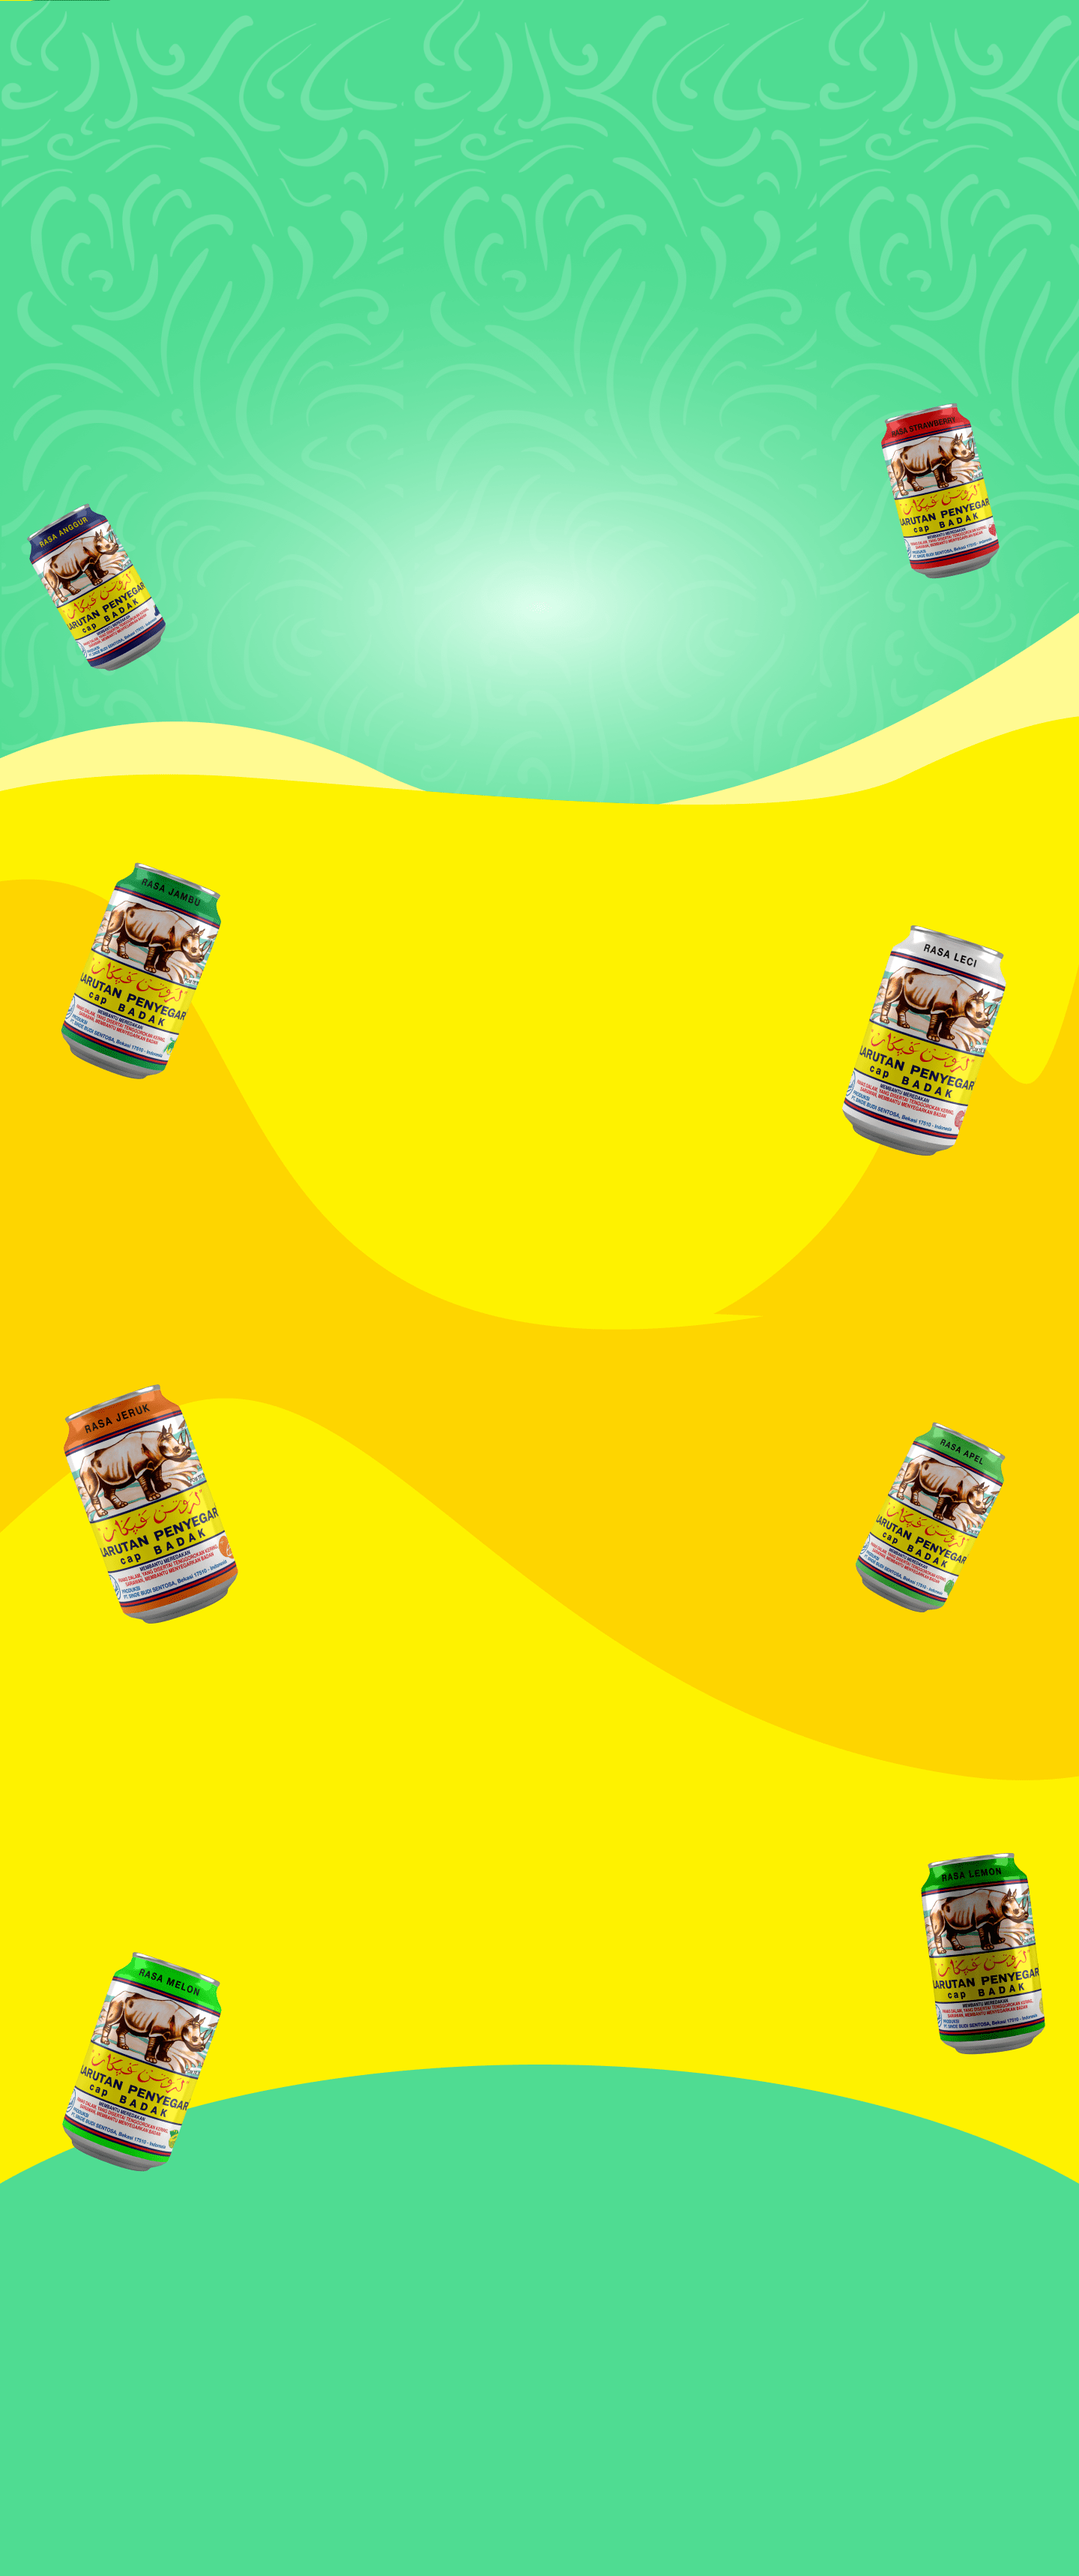
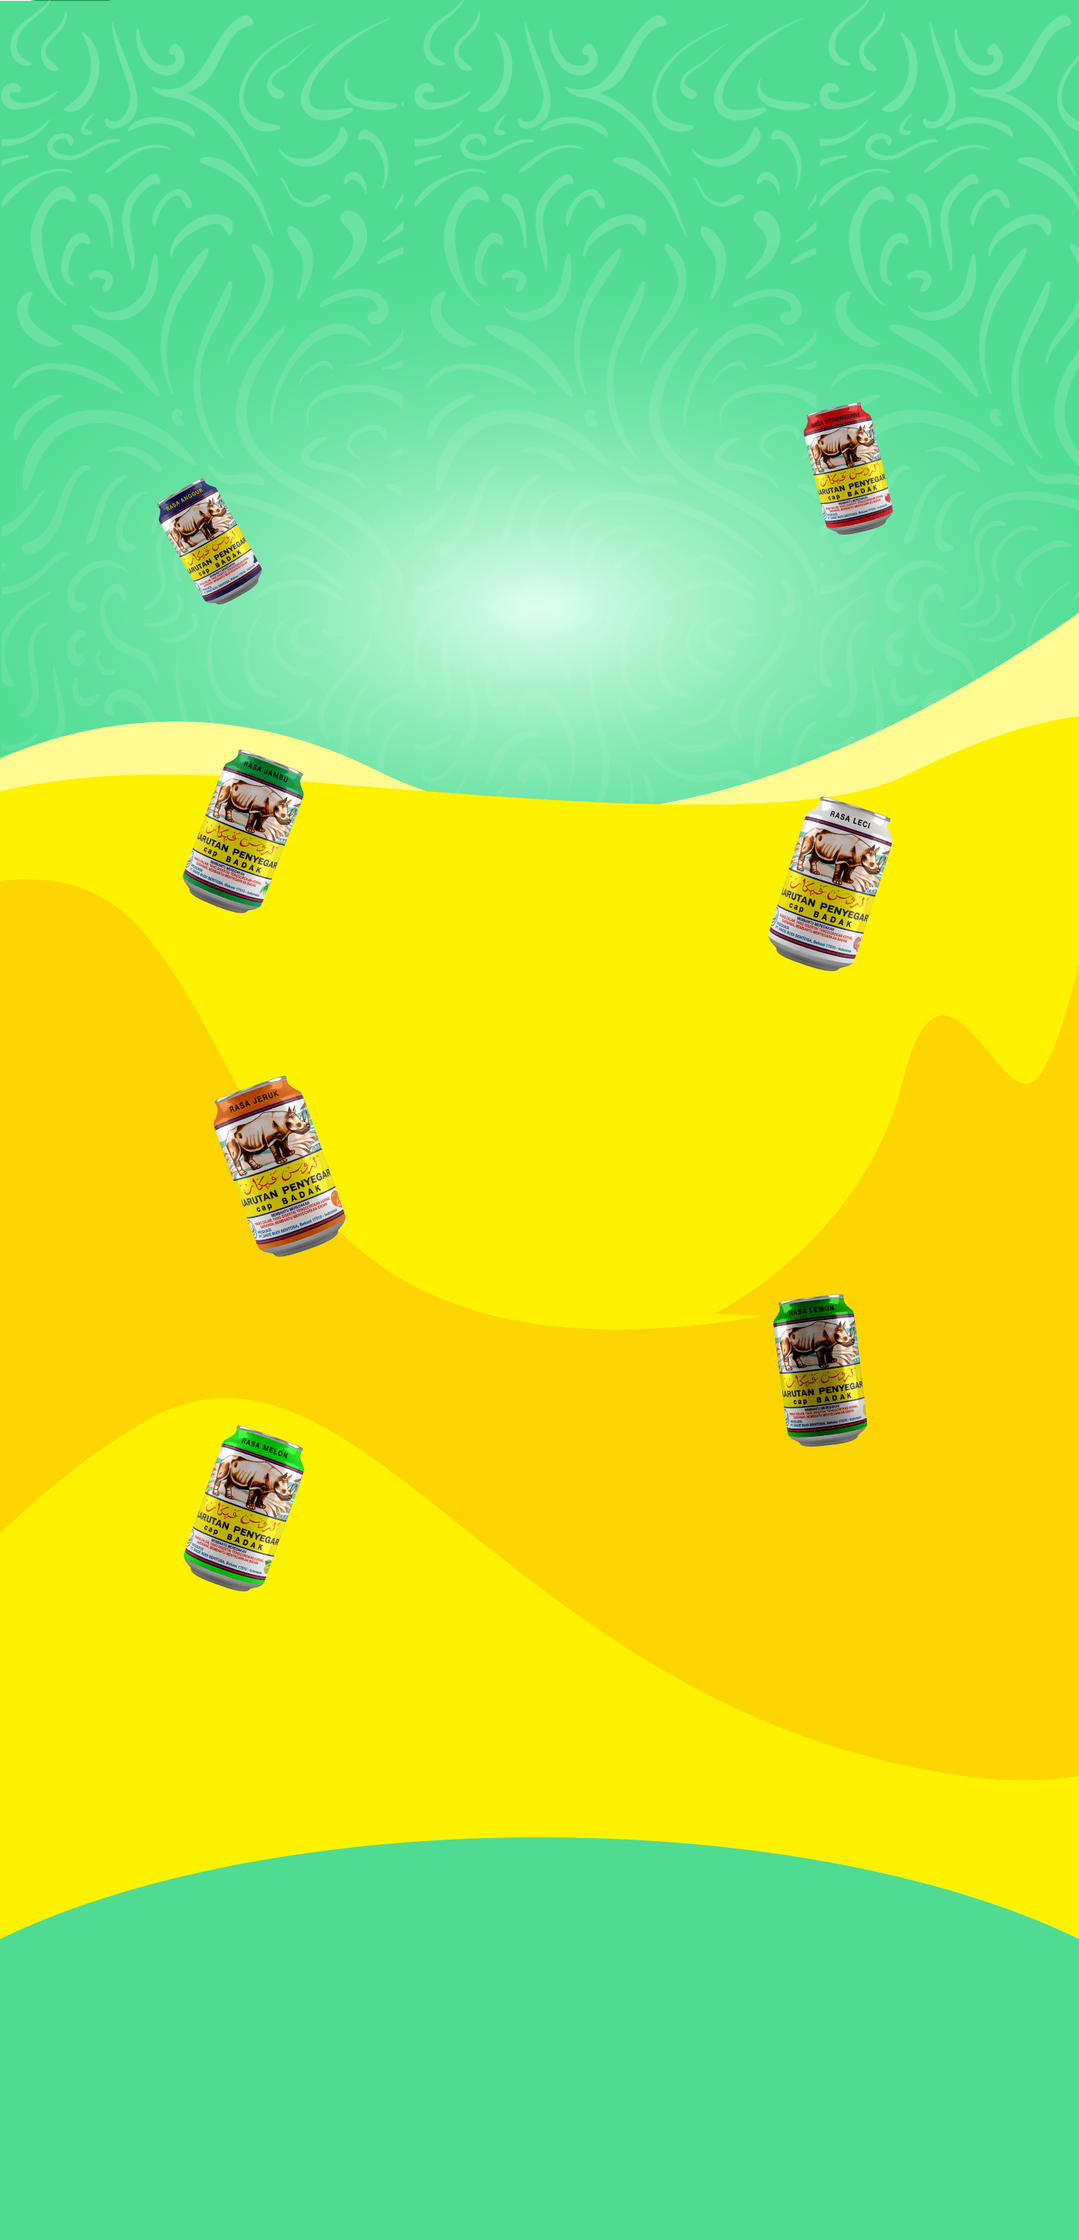
background

diff --git a/resources/sass/app.scss b/resources/sass/app.scss
@@ -184,7 +184,7 @@ header{
 }
 .form-page{
     background-color: #FEF200;
-    background-image: url('/img/bg_form-min.png');
+    background-image: url('/img/form.png');
     background-repeat: no-repeat;
     background-position: top center;
     background-size: cover;

diff --git a/public/css/app.css b/public/css/app.css
@@ -11125,7 +11125,7 @@ header {
 
 .form-page {
   background-color: #FEF200;
-  background-image: url("/img/bg_form-min.png");
+  background-image: url("/img/form.png");
   background-repeat: no-repeat;
   background-position: top center;
   background-size: cover;
